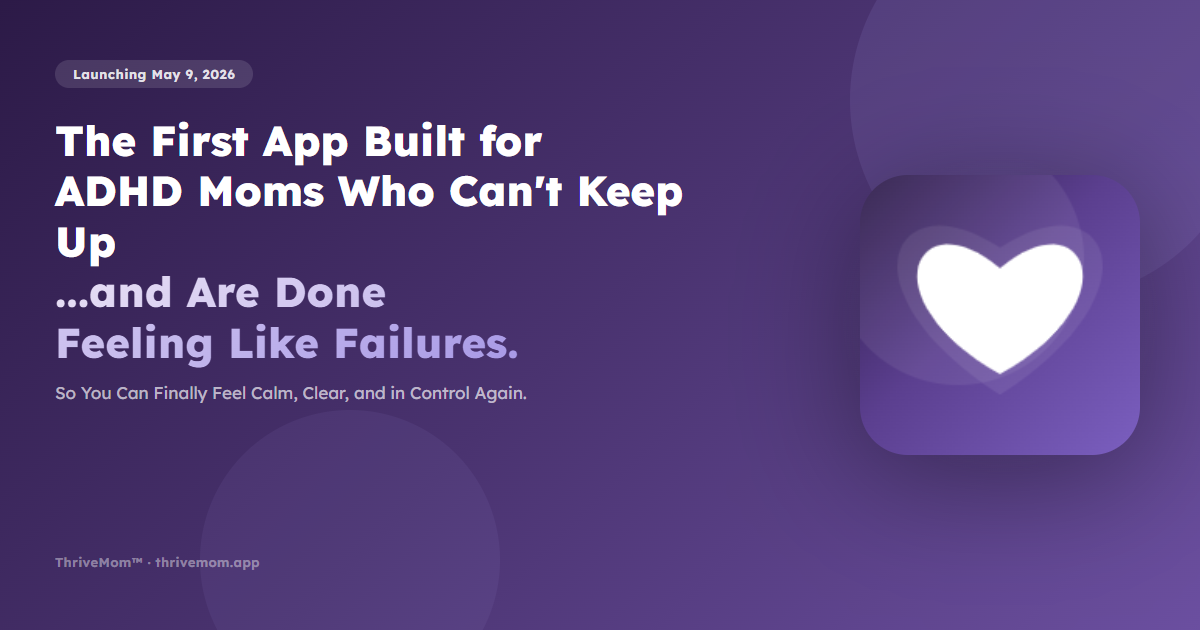
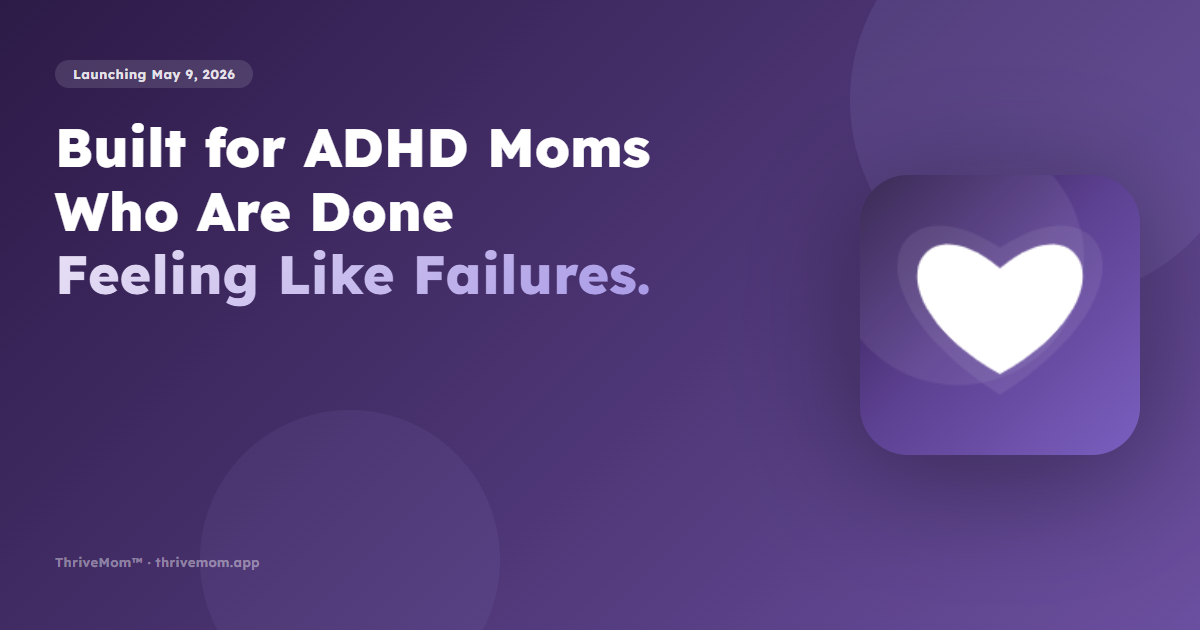
Update OG image: cleaner copy, larger font

Changed region(s): [[0.0308, 0.181, 0.5858, 0.6333]]

diff --git a/og-template.html b/og-template.html
@@ -61,10 +61,10 @@
     }
 
     h1 {
-      font-size: 42px;
+      font-size: 54px;
       font-weight: 800;
       color: #fff;
-      line-height: 1.2;
+      line-height: 1.18;
       margin-bottom: 12px;
     }
 
@@ -122,8 +122,7 @@
 <body>
   <div class="left">
     <div class="badge">Launching May 9, 2026</div>
-    <h1>The First App Built for<br>ADHD Moms Who Can't Keep Up<br><span>...and Are Done<br>Feeling Like Failures.</span></h1>
-    <p class="subtitle">So You Can Finally Feel Calm, Clear, and in Control Again.</p>
+    <h1>Built for ADHD Moms<br>Who Are Done<br><span>Feeling Like Failures.</span></h1>
     <div class="logo-row">ThriveMom&#8482; &middot; thrivemom.app</div>
   </div>
 
